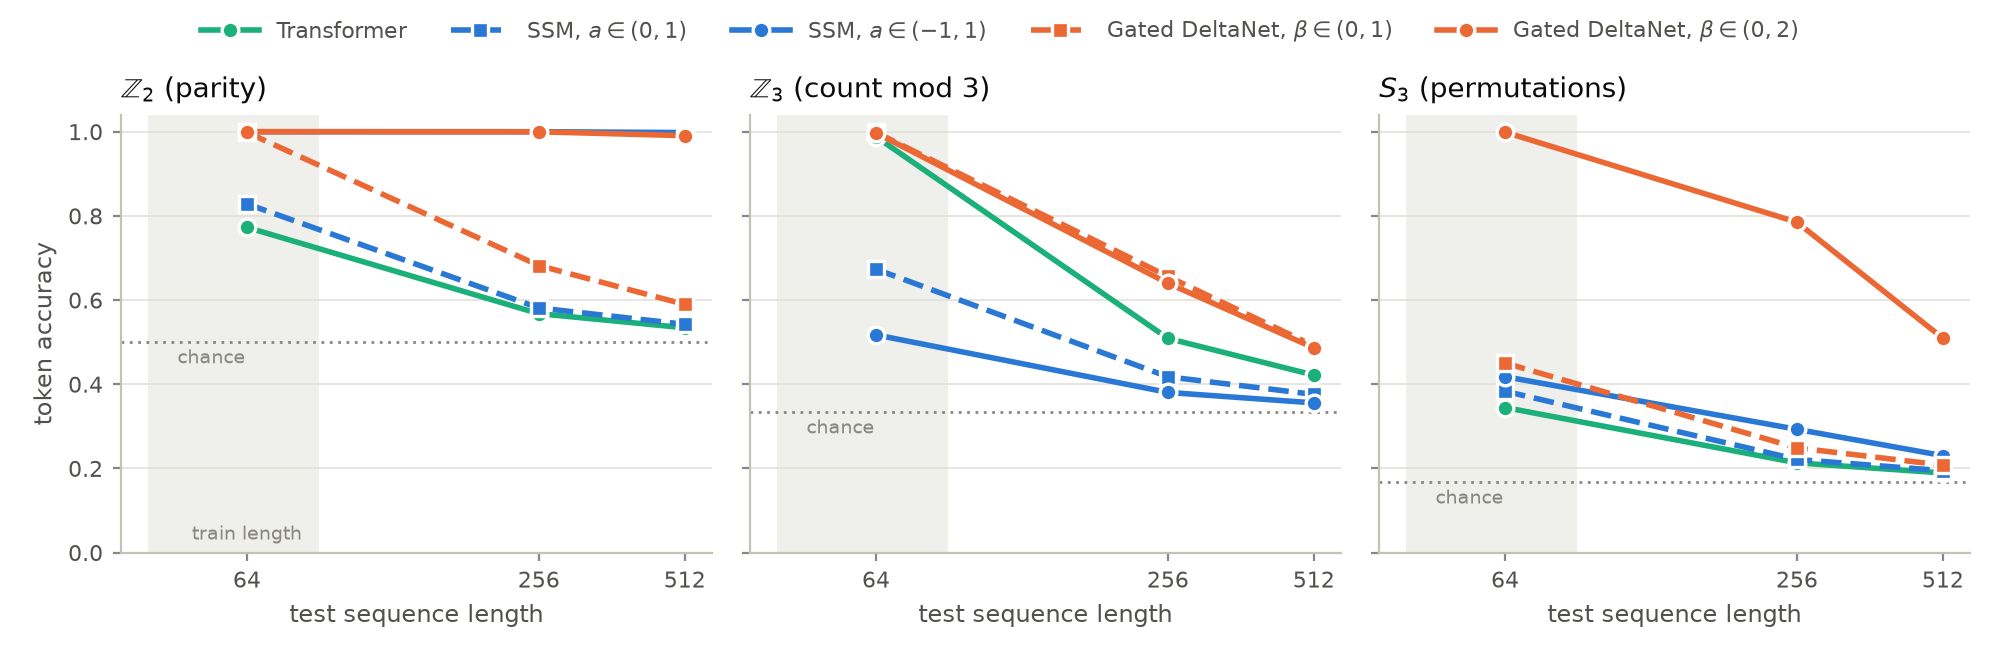
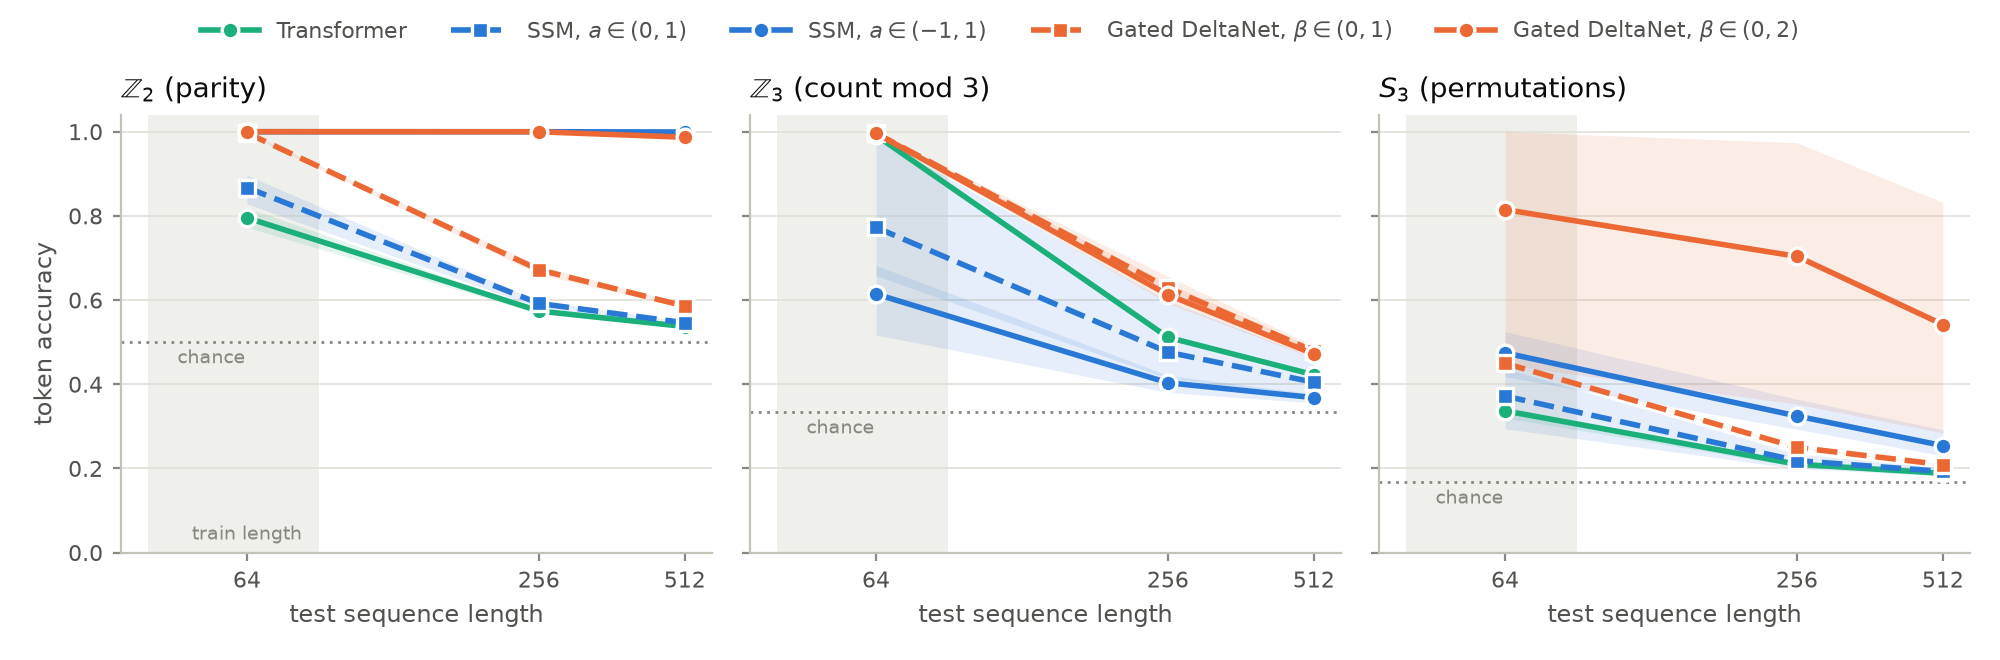
Update state-tracking results to 3 seeds
Table cells are now mean ± std over seeds 0-2 and the figure shows min-max
bands. The table is scaled to the page width.

Claude-Session: https://claude.ai/code/session_01JB2eHxee6us6GdmejCA4c9

diff --git a/report/tables/state_tracking.tex b/report/tables/state_tracking.tex
@@ -4,10 +4,10 @@
 \cmidrule(lr){2-4} \cmidrule(lr){5-7} \cmidrule(lr){8-10}
 Model & 64 & 256 & 512 & 64 & 256 & 512 & 64 & 256 & 512 \\
 \midrule
-Transformer & 0.773 & 0.568 & 0.534 & 0.988 & 0.509 & 0.422 & 0.345 & 0.213 & 0.189 \\
-SSM, $a\in(0,1)$ & 0.829 & 0.581 & 0.542 & 0.673 & 0.418 & 0.376 & 0.384 & 0.221 & 0.195 \\
-SSM, $a\in(-1,1)$ & \textbf{1.000} & \textbf{1.000} & \textbf{0.998} & 0.517 & 0.381 & 0.356 & 0.418 & 0.293 & 0.230 \\
-Gated DeltaNet, $\beta\in(0,1)$ & \textbf{0.998} & 0.682 & 0.590 & \textbf{0.998} & \textbf{0.656} & \textbf{0.491} & 0.451 & 0.249 & 0.208 \\
-Gated DeltaNet, $\beta\in(0,2)$ & \textbf{1.000} & \textbf{1.000} & 0.991 & \textbf{0.997} & 0.640 & \textbf{0.486} & \textbf{0.999} & \textbf{0.785} & \textbf{0.509} \\
+Transformer & 0.795$\pm$0.019 & 0.574$\pm$0.005 & 0.537$\pm$0.002 & \textbf{0.991$\pm$0.002} & 0.512$\pm$0.002 & 0.422$\pm$0.001 & 0.337$\pm$0.012 & 0.210$\pm$0.004 & 0.188$\pm$0.002 \\
+SSM, $a\in(0,1)$ & 0.867$\pm$0.029 & 0.592$\pm$0.008 & 0.546$\pm$0.003 & 0.773$\pm$0.151 & 0.476$\pm$0.086 & 0.405$\pm$0.042 & 0.372$\pm$0.059 & 0.219$\pm$0.015 & 0.193$\pm$0.008 \\
+SSM, $a\in(-1,1)$ & \textbf{1.000$\pm$0.000} & \textbf{1.000$\pm$0.000} & \textbf{0.999$\pm$0.001} & 0.614$\pm$0.070 & 0.403$\pm$0.017 & 0.368$\pm$0.009 & 0.475$\pm$0.044 & 0.325$\pm$0.030 & 0.254$\pm$0.027 \\
+Gated DeltaNet, $\beta\in(0,1)$ & \textbf{0.997$\pm$0.002} & 0.672$\pm$0.009 & 0.586$\pm$0.003 & \textbf{0.996$\pm$0.001} & \textbf{0.629$\pm$0.019} & \textbf{0.479$\pm$0.009} & 0.450$\pm$0.001 & 0.250$\pm$0.001 & 0.209$\pm$0.001 \\
+Gated DeltaNet, $\beta\in(0,2)$ & \textbf{1.000$\pm$0.000} & \textbf{1.000$\pm$0.000} & 0.987$\pm$0.005 & \textbf{0.996$\pm$0.001} & 0.613$\pm$0.020 & 0.472$\pm$0.011 & \textbf{0.815$\pm$0.261} & \textbf{0.704$\pm$0.260} & \textbf{0.542$\pm$0.225} \\
 \bottomrule
 \end{tabular}

diff --git a/report/sections/08_quantitative.tex b/report/sections/08_quantitative.tex
@@ -2,11 +2,11 @@
 \label{sec:quant}
 % Guideline 2.9: at least one clearly formatted table + interpretation.
 
-\begin{table}[h]\centering\small
-\input{tables/state_tracking}
+\begin{table}[h]\centering
+\resizebox{\linewidth}{!}{\input{tables/state_tracking}}
 \caption{RQ2: token accuracy on group-word state tracking. Models are trained on length 64 and tested
 on 64, 256 and 512 (4$\times$ and 8$\times$ longer). Bold: best in column (within 0.005).
-Chance is 0.5 / 0.333 / 0.167. One seed; \todo{rerun with seeds 0--2}.}
+Chance is 0.5 / 0.333 / 0.167. Mean $\pm$ standard deviation over 3 seeds.}
 \label{tab:state}
 \end{table}
 
@@ -14,7 +14,7 @@ Chance is 0.5 / 0.333 / 0.167. One seed; \todo{rerun with seeds 0--2}.}
 \includegraphics[width=\linewidth]{figures/state_tracking}
 \caption{Length generalisation on state tracking. Colour = architecture family, line style =
 eigenvalue range (dashed/square: positive only; solid/circle: extended to negative). Only models whose
-transitions can represent the group keep their accuracy beyond the training length (shaded).}
+transitions can represent the group keep their accuracy beyond the training length (grey band). Lines: mean over 3 seeds; shading: min--max.}
 \label{fig:state}
 \end{figure}
 

diff --git a/README.md b/README.md
@@ -35,21 +35,21 @@ precision, and every model's token-by-token decoding is tested against its paral
 
 ## First results
 
-**RQ2, state tracking** (RTX 4050, one seed, 2 layers, trained on length 64). Full table:
+**RQ2, state tracking** (RTX 4050, mean of 3 seeds, 2 layers, trained on length 64). Full table:
 `report/tables/state_tracking.tex`.
 
 ![state tracking](report/figures/state_tracking.png)
 
 | Test length 512 | Z2 (parity) | Z3 | S3 |
 |---|---|---|---|
-| Transformer | 0.534 | 0.422 | 0.189 |
-| SSM, a in (0,1) | 0.542 | 0.376 | 0.195 |
-| SSM, a in (-1,1) | **0.998** | 0.356 | 0.230 |
-| Gated DeltaNet, beta in (0,1) | 0.590 | 0.491 | 0.208 |
-| Gated DeltaNet, beta in (0,2) | **0.991** | 0.486 | 0.509 |
+| Transformer | 0.537 | 0.422 | 0.188 |
+| SSM, a in (0,1) | 0.546 | 0.405 | 0.193 |
+| SSM, a in (-1,1) | **0.999** | 0.368 | 0.254 |
+| Gated DeltaNet, beta in (0,1) | 0.586 | 0.479 | 0.209 |
+| Gated DeltaNet, beta in (0,2) | **0.987** | 0.472 | 0.542 (seeds: 0.51 / 0.83 / 0.28) |
 
 Only negative eigenvalues make parity length-generalise. Nothing tested so far generalises on Z3
-(a rotation), and only DeltaNet with beta in (0,2) fits S3 at the training length (0.999).
+(a rotation). Only DeltaNet with beta in (0,2) fits S3 at the training length, and only in 2 of 3 seeds.
 
 Smoke-test note for RQ1: on MQAR, a 2-layer attention model with one 64-dimensional head reaches
 about 91% in 3k steps, while the same model with 2 or 4 narrower heads stalls near 53%. Recall
